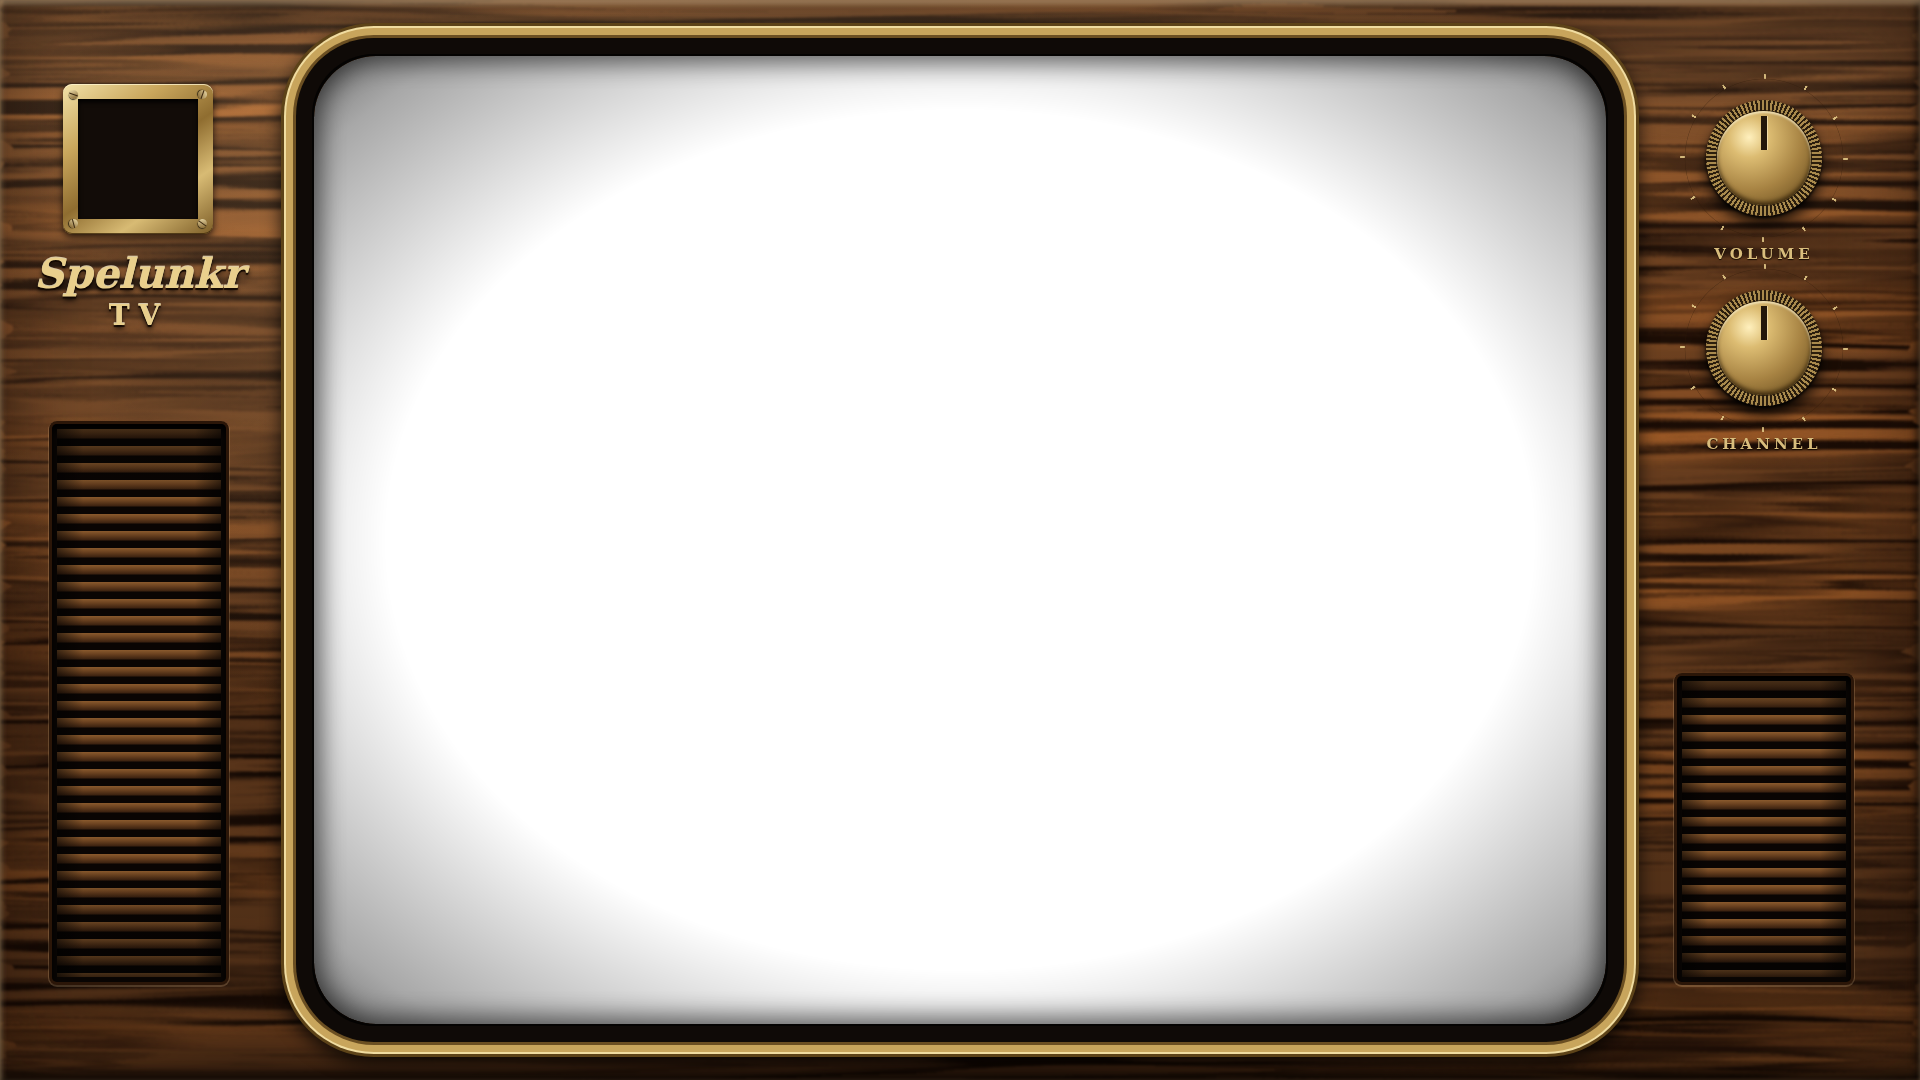
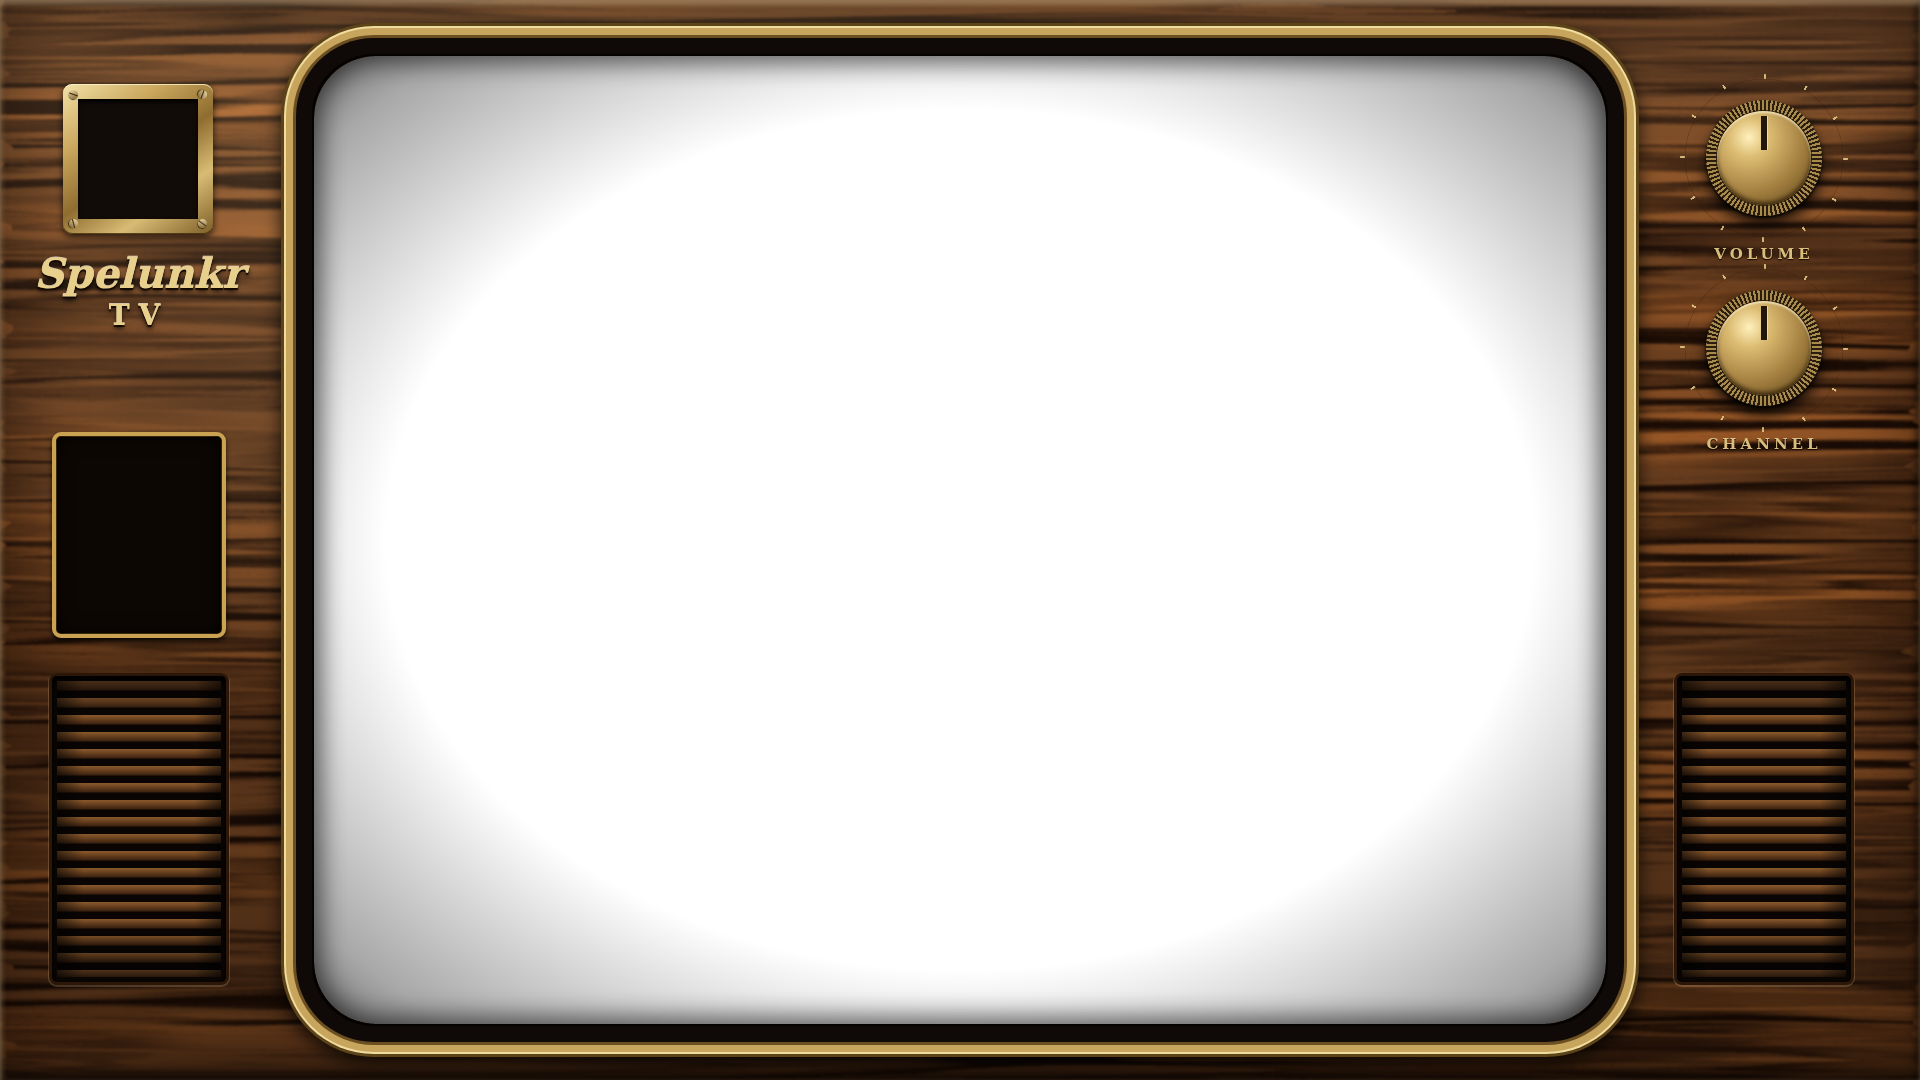
feat(cabinet): empty now-playing window above a shorter left grille

Changed region(s): [[0.0, 0.3667, 0.125, 0.9167]]

diff --git a/tools/cabinet/render.ts b/tools/cabinet/render.ts
@@ -3,7 +3,8 @@
 //   cd tools/check && bun install && cd ../.. && bun tools/cabinet/render.ts
 //
 // One PNG per stream size, drawn fresh rather than scaled, so the slats, dial marks and lettering stay crisp at 720p.
-// Fine repeating lines are what costs the most bitrate, so keep them out of the art: scanlines added 11% to a film. The numbers marked "Picture" must stay in step with Picture (tube) and CabinetArt (logo plate) in the plugin.
+// Fine repeating lines are what costs the most bitrate, so keep them out of the art: scanlines added 11% to a film. The numbers marked "Picture" must stay in step with Picture (tube, now-playing window) and CabinetArt (logo plate) in the plugin.
+// The now-playing window (.np) is drawn empty: its words change with the schedule, so ffmpeg writes them per job (NowPlaying).
 import { resolve } from "node:path";
 import { chromium } from "../check/node_modules/playwright/index.mjs";
 
@@ -19,6 +20,8 @@ function page(height: number) {
   const r = 62 * s;
   const [hx, hy, hw, hh] = [tx + inset, ty + inset, tw - 2 * inset, th - 2 * inset];
   const hole = `M${hx + r} ${hy}h${hw - 2 * r}a${r} ${r} 0 0 1 ${r} ${r}v${hh - 2 * r}a${r} ${r} 0 0 1 ${-r} ${r}h${-(hw - 2 * r)}a${r} ${r} 0 0 1 ${-r} ${-r}v${-(hh - 2 * r)}a${r} ${r} 0 0 1 ${r} ${-r}z`;
+  // Picture: the now-playing window (left, top, width, height) and its rim. ffmpeg writes the words inside it.
+  const [nx, ny, nw, nh, rim] = [52, 432, 174, 206, 4];
   const frame = `M0 0H${1920 * s}V${height}H0z`;
 
   // A real set is lit from above: every metal part goes bright at its top left, and every raised part drops a shadow.
@@ -47,7 +50,9 @@ html,body{margin:0;background:transparent}
 .grille{position:absolute;left:${px(52)};width:${px(174)};top:${px(424)};height:${px(558)};border-radius:${px(5)};background:#0a0604;box-shadow:0 0 0 ${px(3)} #2b1608,0 ${px(1)} 0 ${px(4)} rgba(255,214,160,.2),inset 0 ${px(6)} ${px(8)} #000}
 .grille:before{content:"";position:absolute;inset:${px(5)};background:repeating-linear-gradient(180deg,#8a5a2d 0,#6b4220 ${px(4)},#3c2210 ${px(9)},#0a0503 ${px(10)},#0a0503 ${px(17)})}
 .grille:after{content:"";position:absolute;inset:${px(5)};background:linear-gradient(90deg,rgba(0,0,0,.55),transparent 16%,transparent 84%,rgba(0,0,0,.55)),linear-gradient(180deg,rgba(0,0,0,.5),transparent 12%,transparent 80%,rgba(0,0,0,.5))}
+.g1{top:${px(676)};height:${px(306)}}
 .g2{left:${px(1677)};top:${px(676)};height:${px(306)}}
+.np{position:absolute;left:${px(nx)};width:${px(nw)};top:${px(ny)};height:${px(nh)};box-sizing:border-box;background:#0d0703;border:${px(rim)} solid #c9a352;border-radius:${px(9)};box-shadow:inset 0 0 ${px(18)} #000,0 ${px(3)} ${px(5)} rgba(0,0,0,.7),inset 0 0 0 ${px(1)} #6b4f1c}
 .dial{position:absolute;left:${px(1680)};width:${px(168)};height:${px(168)};border-radius:50%;background:radial-gradient(circle,transparent 62%,#2b1809 63%,#2b1809 66%,transparent 67%),repeating-conic-gradient(rgba(233,207,140,.85) 0 1.4deg,transparent 1.4deg 30deg);-webkit-mask:radial-gradient(circle,transparent 66%,#000 67%,#000 72%,transparent 73%);mask:radial-gradient(circle,transparent 66%,#000 67%,#000 72%,transparent 73%)}
 .k{position:absolute;left:${px(1706)};width:${px(116)};height:${px(116)};border-radius:50%;background:repeating-conic-gradient(#2a1d0d 0 2.2deg,#a98a4d 2.2deg 4.5deg);box-shadow:0 ${px(9)} ${px(14)} rgba(0,0,0,.8),0 ${px(2)} ${px(3)} rgba(0,0,0,.9)}
 .cap{position:absolute;inset:${px(11)};border-radius:50%;background:radial-gradient(circle at 34% 28%,#fff0bd 0,#dcbc72 22%,#a68242 58%,#5d4318 100%);box-shadow:inset 0 ${px(2)} ${px(2)} rgba(255,246,214,.7),inset 0 ${px(-3)} ${px(4)} rgba(40,25,5,.75),0 0 0 ${px(1)} #2a1d0d}
@@ -67,7 +72,8 @@ html,body{margin:0;background:transparent}
 <div class=plate><div></div></div>
 ${screw(69, 90, 20)}${screw(198, 90, 110)}${screw(69, 219, 75)}${screw(198, 219, 35)}
 <div class=brand>Spelunkr<b>TV</b></div>
-<div class=grille></div>
+<div class="grille g1"></div>
+<div class=np></div>
 ${knob(100, "VOLUME")}${knob(290, "CHANNEL")}
 <div class="grille g2"></div>
 </div>
